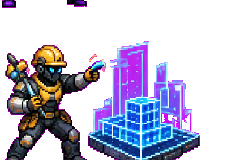
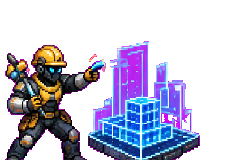
Remove Artifex attack frame artifacts

Changed region(s): [[0.2625, 0.0, 0.3792, 0.0625], [0.0, 0.0, 0.0875, 0.0625]]

diff --git a/artifacts/cybergrid-strike-pre-evo/src/components/Game.tsx b/artifacts/cybergrid-strike-pre-evo/src/components/Game.tsx
@@ -4028,9 +4028,10 @@ export default function Game() {
       try {
         const base = import.meta.env.BASE_URL;
         if (rivalSkin) {
+          const alphaVersion = playerSkin === 'architect' ? 'v3' : 'v2';
           let [rawIdle, rawAttack] = await Promise.all([
-            loadBitmap(`${base}skins/skill-${playerSkin}-idle.png?alpha=v2`),
-            loadBitmap(`${base}skins/skill-${playerSkin}-attack.png?alpha=v2`),
+            loadBitmap(`${base}skins/skill-${playerSkin}-idle.png?alpha=${alphaVersion}`),
+            loadBitmap(`${base}skins/skill-${playerSkin}-attack.png?alpha=${alphaVersion}`),
           ]);
           if (playerSkin === 'hijack') {
             const idleCrop = await createImageBitmap(
